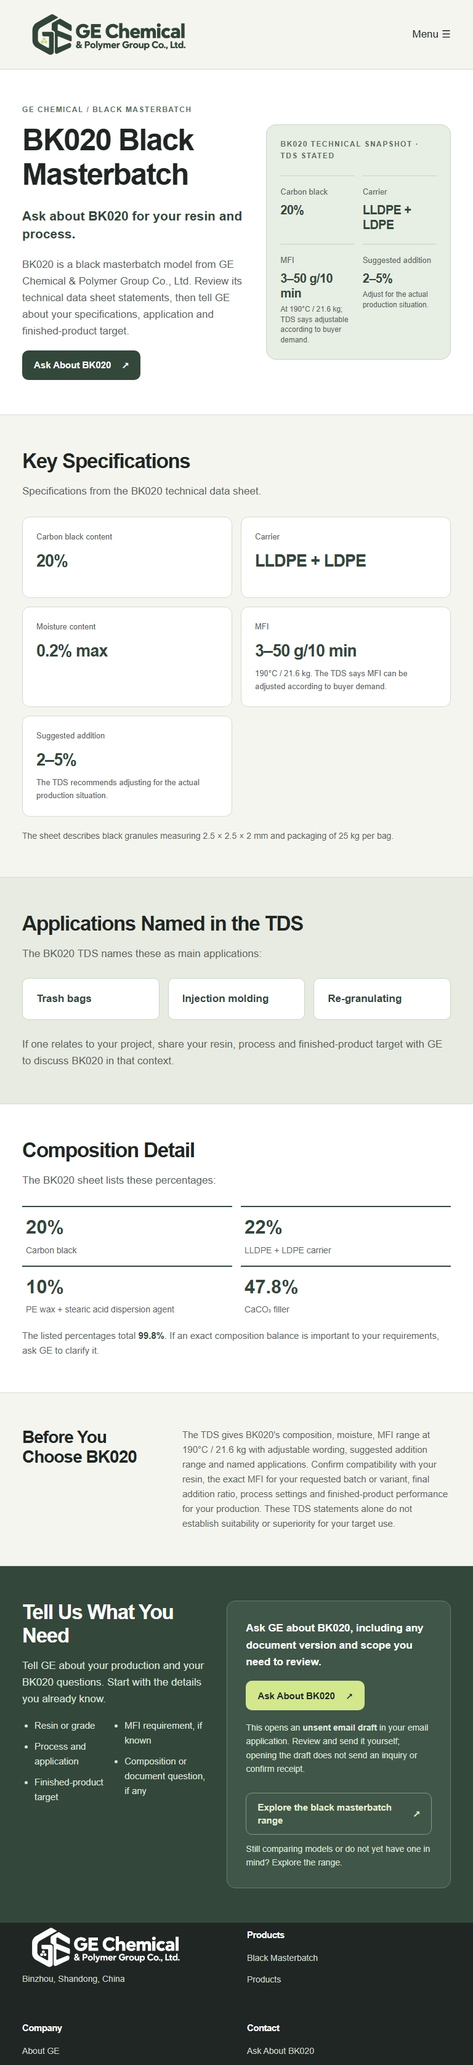
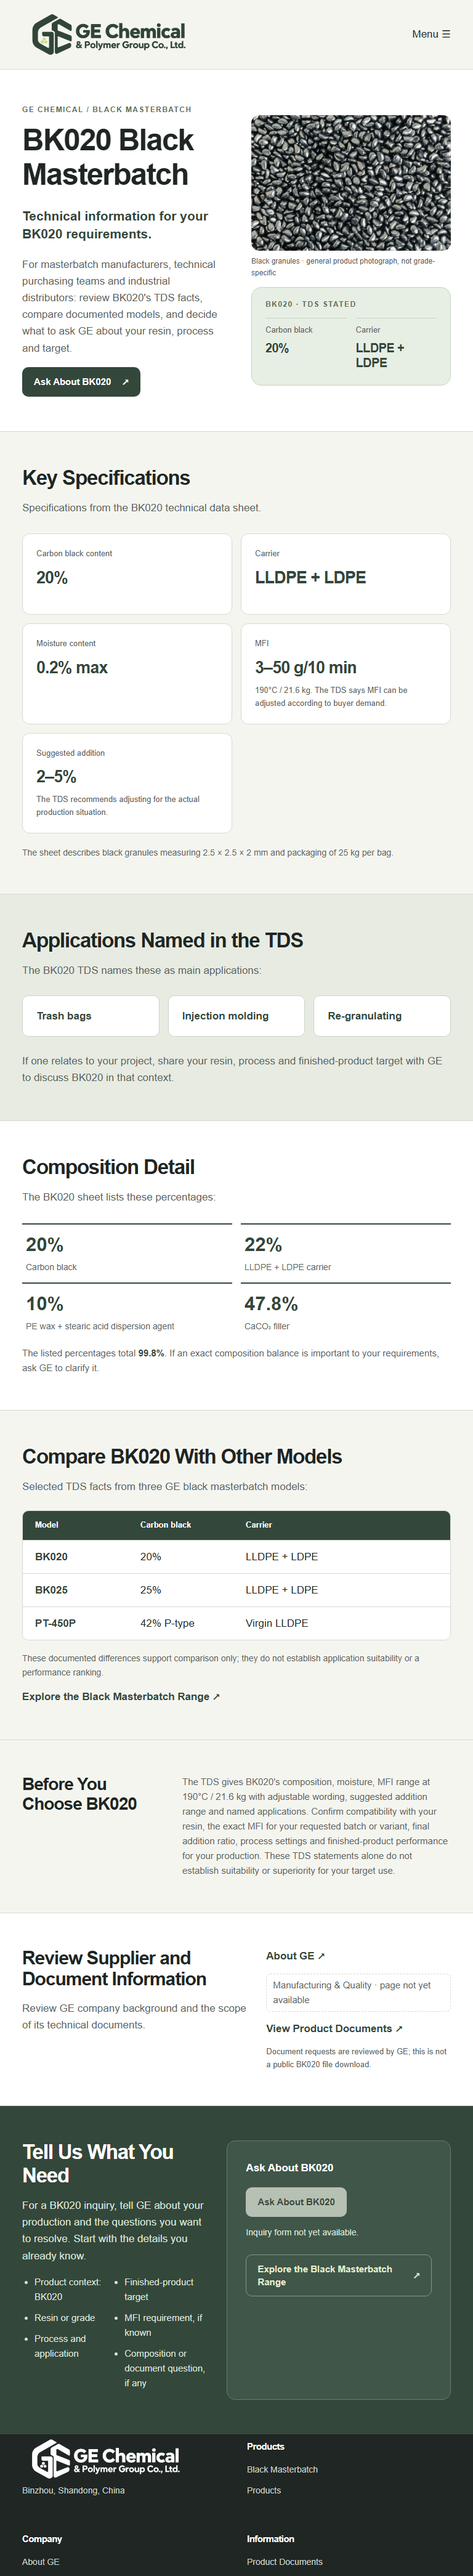
Add BK020 comparison and inquiry-route visual dependencies

diff --git a/planning/visuals/P017/p017-visual.html b/planning/visuals/P017/p017-visual.html
@@ -1,10 +1,12 @@
 <!doctype html><html lang="en"><head><meta charset="utf-8"><meta name="viewport" content="width=device-width, initial-scale=1"><title>BK020 Black Masterbatch | GE Chemical</title><meta name="description" content="Explore BK020 black masterbatch: composition, moisture, MFI and TDS-stated uses. Discuss your resin, process and target with GE."><link rel="stylesheet" href="p017-visual.css"></head><body>
-<header class="site-header"><div class="shell header-inner"><a class="brand" href="/" aria-label="GE Chemical homepage"><img src="../P001/assets/ge-logo-candidate.png" alt="GE Chemical &amp; Polymer Group Co., Ltd."></a><nav class="desktop-nav" aria-label="Primary navigation"><a href="/products/black-masterbatch/">Black Masterbatch</a><a href="/products/">Products</a><a href="/applications/">Applications</a><a href="/about/">About GE</a></nav><a class="header-inquiry" href="mailto:jenny@ge-masterbatch.com?subject=BK020%20evaluation%20question">Ask About BK020 ↗</a><details class="mobile-menu"><summary>Menu ☰</summary><nav aria-label="Mobile navigation"><a href="/products/black-masterbatch/">Black Masterbatch</a><a href="/products/">Products</a><a href="/applications/">Applications</a><a href="/about/">About GE</a><a href="mailto:jenny@ge-masterbatch.com?subject=BK020%20evaluation%20question">Ask About BK020</a></nav></details></div></header>
+<header class="site-header"><div class="shell header-inner"><a class="brand" href="/" aria-label="GE Chemical homepage"><img src="../P001/assets/ge-logo-candidate.png" alt="GE Chemical &amp; Polymer Group Co., Ltd."></a><nav class="desktop-nav" aria-label="Primary navigation"><a href="/products/black-masterbatch/">Black Masterbatch</a><a href="/products/">Products</a><a href="/applications/">Applications</a><a href="/about/">About GE</a></nav><a class="header-inquiry" href="#bk020-inquiry">Ask About BK020 ↗</a><details class="mobile-menu"><summary>Menu ☰</summary><nav aria-label="Mobile navigation"><a href="/products/black-masterbatch/">Black Masterbatch</a><a href="/products/">Products</a><a href="/applications/">Applications</a><a href="/about/">About GE</a><a href="#bk020-inquiry">Ask About BK020</a></nav></details></div></header>
 <main>
-<section class="hero module"><div class="shell hero-layout"><div class="hero-copy"><p class="eyebrow">GE Chemical / Black masterbatch</p><h1>BK020 Black Masterbatch</h1><p class="lead">Ask about BK020 for your resin and process.</p><p>BK020 is a black masterbatch model from GE Chemical &amp; Polymer Group Co., Ltd. Review its technical data sheet statements, then tell GE about your specifications, application and finished-product target.</p><a class="btn primary" href="mailto:jenny@ge-masterbatch.com?subject=BK020%20evaluation%20question">Ask About BK020 <span aria-hidden="true">↗</span></a></div><div class="snapshot"><p class="snapshot-label">BK020 technical snapshot · TDS stated</p><div class="snapshot-grid"><div><span>Carbon black</span><strong>20%</strong></div><div><span>Carrier</span><strong>LLDPE + LDPE</strong></div><div><span>MFI</span><strong>3–50 g/10 min</strong><small>At 190°C / 21.6 kg; TDS says adjustable according to buyer demand.</small></div><div><span>Suggested addition</span><strong>2–5%</strong><small>Adjust for the actual production situation.</small></div></div></div></div></section>
+<section class="hero module"><div class="shell hero-layout"><div class="hero-copy"><p class="eyebrow">GE Chemical / Black masterbatch</p><h1>BK020 Black Masterbatch</h1><p class="lead">Technical information for your BK020 requirements.</p><p>For masterbatch manufacturers, technical purchasing teams and industrial distributors: review BK020's TDS facts, compare documented models, and decide what to ask GE about your resin, process and target.</p><a class="btn primary" href="#bk020-inquiry">Ask About BK020 <span aria-hidden="true">↗</span></a></div><div class="hero-media"><figure><img src="../../inputs/Cmp_Info/PIC&amp;Vedio/微信图片_20260707174840_213_1.jpg" alt="General black masterbatch granules; BK020 grade identity not verified"><figcaption>Black granules · general product photograph, not grade-specific</figcaption></figure><div class="snapshot"><p class="snapshot-label">BK020 · TDS stated</p><div class="snapshot-grid"><div><span>Carbon black</span><strong>20%</strong></div><div><span>Carrier</span><strong>LLDPE + LDPE</strong></div></div></div></div></div></section>
 <section class="specs module"><div class="shell"><div class="intro"><h2>Key Specifications</h2><p>Specifications from the BK020 technical data sheet.</p></div><div class="spec-grid"><div class="spec"><span>Carbon black content</span><strong>20%</strong></div><div class="spec"><span>Carrier</span><strong>LLDPE + LDPE</strong></div><div class="spec"><span>Moisture content</span><strong>0.2% max</strong></div><div class="spec"><span>MFI</span><strong>3–50 g/10 min</strong><p>190°C / 21.6 kg. The TDS says MFI can be adjusted according to buyer demand.</p></div><div class="spec"><span>Suggested addition</span><strong>2–5%</strong><p>The TDS recommends adjusting for the actual production situation.</p></div></div><p class="minor-detail">The sheet describes black granules measuring 2.5 × 2.5 × 2 mm and packaging of 25 kg per bag.</p></div></section>
 <section class="uses module"><div class="shell"><div class="intro"><h2>Applications Named in the TDS</h2><p>The BK020 TDS names these as main applications:</p></div><div class="use-grid"><div>Trash bags</div><div>Injection molding</div><div>Re-granulating</div></div><p class="use-note">If one relates to your project, share your resin, process and finished-product target with GE to discuss BK020 in that context.</p></div></section>
 <section class="composition module"><div class="shell"><div class="intro"><h2>Composition Detail</h2><p>The BK020 sheet lists these percentages:</p></div><div class="composition-grid"><div><strong>20%</strong><span>Carbon black</span></div><div><strong>22%</strong><span>LLDPE + LDPE carrier</span></div><div><strong>10%</strong><span>PE wax + stearic acid dispersion agent</span></div><div><strong>47.8%</strong><span>CaCO₃ filler</span></div></div><p class="composition-note">The listed percentages total <strong>99.8%</strong>. If an exact composition balance is important to your requirements, ask GE to clarify it.</p></div></section>
+<section class="compare module"><div class="shell"><div class="intro"><h2>Compare BK020 With Other Models</h2><p>Selected TDS facts from three GE black masterbatch models:</p></div><div class="compare-table"><div class="compare-head"><span>Model</span><span>Carbon black</span><span>Carrier</span></div><div class="compare-row"><strong>BK020</strong><span>20%</span><span>LLDPE + LDPE</span></div><div class="compare-row"><strong>BK025</strong><span>25%</span><span>LLDPE + LDPE</span></div><div class="compare-row"><strong>PT-450P</strong><span>42% P-type</span><span>Virgin LLDPE</span></div></div><p class="compare-note">These documented differences support comparison only; they do not establish application suitability or a performance ranking.</p><a class="text-link" href="/products/black-masterbatch/">Explore the Black Masterbatch Range ↗</a></div></section>
 <section class="boundary module"><div class="shell boundary-inner"><h2>Before You Choose BK020</h2><p>The TDS gives BK020's composition, moisture, MFI range at 190°C / 21.6 kg with adjustable wording, suggested addition range and named applications. Confirm compatibility with your resin, the exact MFI for your requested batch or variant, final addition ratio, process settings and finished-product performance for your production. These TDS statements alone do not establish suitability or superiority for your target use.</p></div></section>
-<section class="contact module" id="bk020-inquiry"><div class="shell contact-grid"><div><h2>Tell Us What You Need</h2><p>Tell GE about your production and your BK020 questions. Start with the details you already know.</p><ul class="hint-list"><li>Resin or grade</li><li>Process and application</li><li>Finished-product target</li><li>MFI requirement, if known</li><li>Composition or document question, if any</li></ul></div><div class="contact-action"><p>Ask GE about BK020, including any document version and scope you need to review.</p><a class="btn primary" href="mailto:jenny@ge-masterbatch.com?subject=BK020%20evaluation%20question">Ask About BK020 <span aria-hidden="true">↗</span></a><p class="mailto-note">This opens an <strong>unsent email draft</strong> in your email application. Review and send it yourself; opening the draft does not send an inquiry or confirm receipt.</p><a class="btn secondary" href="/products/black-masterbatch/">Explore the black masterbatch range <span aria-hidden="true">↗</span></a><p class="secondary-note">Still comparing models or do not yet have one in mind? Explore the range.</p></div></div></section>
-</main><footer class="site-footer"><div class="shell footer-grid"><div class="footer-identity"><a class="brand" href="/" aria-label="GE Chemical homepage"><img src="../P001/assets/ge-logo-candidate.png" alt="GE Chemical &amp; Polymer Group Co., Ltd."></a><p>Binzhou, Shandong, China</p></div><div><h3>Products</h3><a href="/products/black-masterbatch/">Black Masterbatch</a><a href="/products/">Products</a></div><div><h3>Company</h3><a href="/about/">About GE</a></div><div><h3>Contact</h3><a href="#bk020-inquiry">Ask About BK020</a></div></div></footer></body></html>
+<section class="evidence module"><div class="shell evidence-inner"><div><h2>Review Supplier and Document Information</h2><p>Review GE company background and the scope of its technical documents.</p></div><div class="evidence-links"><a class="text-link" href="/about/">About GE ↗</a><span class="pending-link">Manufacturing &amp; Quality · page not yet available</span><a class="text-link" href="/documents/">View Product Documents ↗</a><small>Document requests are reviewed by GE; this is not a public BK020 file download.</small></div></div></section>
+<section class="contact module" id="bk020-inquiry"><div class="shell contact-grid"><div><h2>Tell Us What You Need</h2><p>For a BK020 inquiry, tell GE about your production and the questions you want to resolve. Start with the details you already know.</p><ul class="hint-list"><li>Product context: BK020</li><li>Resin or grade</li><li>Process and application</li><li>Finished-product target</li><li>MFI requirement, if known</li><li>Composition or document question, if any</li></ul></div><div class="contact-action"><p>Ask About BK020</p><button class="btn primary unavailable" type="button" disabled data-planned-destination="/rfq/" data-product-context="BK020">Ask About BK020</button><p class="unavailable-note">Inquiry form not yet available.</p><a class="btn secondary" href="/products/black-masterbatch/">Explore the Black Masterbatch Range <span aria-hidden="true">↗</span></a></div></div></section>
+</main><footer class="site-footer"><div class="shell footer-grid"><div class="footer-identity"><a class="brand" href="/" aria-label="GE Chemical homepage"><img src="../P001/assets/ge-logo-candidate.png" alt="GE Chemical &amp; Polymer Group Co., Ltd."></a><p>Binzhou, Shandong, China</p></div><div><h3>Products</h3><a href="/products/black-masterbatch/">Black Masterbatch</a><a href="/products/">Products</a></div><div><h3>Company</h3><a href="/about/">About GE</a></div><div><h3>Information</h3><a href="/documents/">Product Documents</a></div></div></footer></body></html>

diff --git a/planning/visuals/P017/p017-visual.css b/planning/visuals/P017/p017-visual.css
@@ -4,3 +4,7 @@
 @media(max-width:760px){.hero-layout,.contact-grid,.boundary-inner{grid-template-columns:1fr}.snapshot{max-width:620px}.use-grid{grid-template-columns:1fr 1fr}.boundary-inner{gap:12px}.hint-list{columns:1}}
 @media(max-width:600px){body{font-size:16px}.shell{padding:0 24px}.header-inner{height:82px}.brand{width:238px;height:68px}.mobile-menu nav{left:24px;right:24px}.module>.shell{padding-top:46px;padding-bottom:46px}h1{font-size:43px}h2{font-size:31px}.lead{font-size:18px}.hero .btn{width:100%}.snapshot-grid{grid-template-columns:1fr 1fr}.snapshot-grid strong{font-size:19px}.spec-grid{grid-template-columns:1fr 1fr;gap:10px}.spec{padding:17px;min-height:116px}.spec strong{font-size:22px}.spec:nth-child(n+4){grid-column:span 2}.composition-grid{gap:12px}.composition-grid strong{font-size:26px}.use-grid{grid-template-columns:1fr;gap:9px}.use-grid div{padding:14px 18px}.boundary h2{font-size:25px}.contact-action{padding:22px}.contact-action .btn{width:100%}.footer-grid{grid-template-columns:1fr;gap:15px}.footer-identity .brand{width:280px;height:83px}}
 @media(max-width:360px){h1{font-size:38px}.brand{width:190px;height:56px}.snapshot-grid{grid-template-columns:1fr}}@media(prefers-reduced-motion:reduce){html{scroll-behavior:auto}}
+.hero-layout{grid-template-columns:1fr 1fr;gap:48px}.hero-media figure{margin:0 0 12px}.hero-media img{display:block;width:100%;height:260px;object-fit:cover;border-radius:13px}.hero-media figcaption{font-size:12px;color:var(--muted);margin-top:8px}.hero-media .snapshot{padding:18px 22px}.hero-media .snapshot-label{margin-bottom:12px}.hero-media .snapshot-grid{gap:15px}.hero-media .snapshot-grid>div{padding-top:9px}.compare{background:var(--paper)}.compare-table{margin:25px 0 18px;border:1px solid var(--line);border-radius:10px;overflow:hidden}.compare-head,.compare-row{display:grid;grid-template-columns:1fr 1fr 2fr;gap:15px;align-items:center;padding:13px 20px}.compare-head{background:var(--green);color:#fff;font-size:13px;font-weight:700}.compare-row{background:#fff;border-top:1px solid var(--line)}.compare-row strong{color:var(--green)}.compare-note{font-size:14px;margin:0 0 15px}.text-link{color:var(--green);font-weight:700;text-decoration:none}.text-link:hover{text-decoration:underline}.evidence{background:#fff}.evidence-inner{display:grid;grid-template-columns:1.1fr .9fr;gap:55px}.evidence-inner h2{font-size:30px}.evidence-links{display:flex;flex-direction:column;align-items:flex-start;gap:14px}.pending-link{font-size:15px;color:var(--muted);border:1px dashed var(--line);border-radius:7px;padding:6px 10px}.evidence-links small{font-size:13px;color:var(--muted);max-width:380px}.contact-action .unavailable{background:#b6c0b3;color:#39483c;cursor:not-allowed}.unavailable-note{font-size:14px;margin:14px 0 25px}.contact .btn.secondary{margin-top:0}
+@media(max-width:1000px){.hero-media img{height:220px}.evidence-inner{gap:30px}}
+@media(max-width:760px){.hero-layout,.evidence-inner{grid-template-columns:1fr}.hero-media img{height:250px}}
+@media(max-width:600px){.hero-media img{height:210px}.compare-head{display:none}.compare-row{grid-template-columns:1fr 1fr;padding:15px}.compare-row span:last-child{grid-column:1/-1}.compare-row span:nth-child(2):before{content:"Carbon black";display:block;color:var(--muted);font-size:12px}.compare-row span:last-child:before{content:"Carrier";display:block;color:var(--muted);font-size:12px}.evidence-inner h2{font-size:28px}}

diff --git a/planning/pages/P017.md b/planning/pages/P017.md
@@ -218,3 +218,15 @@ Latest owner-directed Gate 3 inquiry revision, 2026-10-03: The owner explicitly 
 The amended buyer-visible language is a Gate 3 candidate in `../visuals/P017/p017-visual.html`; the earlier approved Full Copy above remains the factual reference. Reconcile the approved presentation wording into that single Full Copy section after owner visual confirmation and before implementation. Independent read-only buyer-language review of the final visual source returned `REVIEW_READY` with no required findings. The 1440/768/390 exports were rendered and inspected; no horizontal overflow or failed logo loading was observed. Email actions still open an unsent draft and the P013 range route remains the secondary exit; P005/P033/P006 body entrances remain conditional. These checks do not measure inquiry conversion, establish mail delivery or verify WordPress behavior. Owner review of this latest complete static draft is next. `Status: PLANNED`.
 
 Owner email-display correction, 2026-10-03: Following “邮箱不要了。没必要的。” the visual removes the publicly displayed address and direct-email alternatives from Hero, closing copy and footer. The footer now points to the page's BK020 inquiry section. Pending clarification of whether the owner also intends to replace the action channel, the Ask About BK020 buttons retain their existing mailto behavior with an accurate unsent-draft explanation; no unbuilt form is substituted. All three static exports were regenerated without horizontal overflow. `Status: PLANNED`.
+
+## Gate 3 buyer-journey revision — 2026-10-03 (current candidate)
+
+The owner's supplied “Revise BK020 Product Detail Page for Better Industrial B2B Conversion” task authorizes the model comparison, supplier-evidence exit and RFQ architecture below. This replaces the prior visual action proposal, including its mailto fallback; no unrelated page or WordPress file is changed. The current candidate remains in `../visuals/P017/p017-visual.html` and its matching 1440/768/390 exports. Revised presentation wording remains subject to owner confirmation and later reconciliation into the single Full Copy source above before implementation.
+
+- **Hero:** identifies BK020 and addresses masterbatch manufacturers, technical purchasing teams and industrial distributors. Its snapshot contains only 20% carbon black and LLDPE + LDPE carrier; the later specification module holds the full five-field summary. The existing supplied black-granule photograph `../inputs/Cmp_Info/PIC&Vedio/微信图片_20260707174840_213_1.jpg` is reused under P001's approved local presentation scope, with a visible general-product/not-grade-specific caption and descriptive alt. It is not a BK020 photo or evidence of grade performance; production attribution/rights remain separate.
+- **Technical detail:** the three TDS-named applications remain text labels, not model-fit recommendations or active links to unbuilt application pages. Composition is retained as compact TDS-stated supporting information, with 99.8% listed total unchanged and no invented remainder. MFI condition/adjustability and suggested addition qualifiers remain attached to the values. Before You Choose BK020 remains compact and does not become P033's full selection method.
+- **Model relationship:** a selected three-row comparison shows BK020 (20%, LLDPE + LDPE), BK025 (25%, LLDPE + LDPE), and PT-450P (42% P-type, virgin LLDPE). The original BK020, BK025 and `TDS--PT-400.doc` bodies were read directly for this revision; the last body identifies PT-450P. Only carbon-black content and carrier are compared, without price, quality, fit or performance ranking. A visible comparison caution and active P013 range exit remain. P018/P023 detail links are withheld until approved and available; three selected rows do not represent the complete seven-model range.
+- **Evidence exits:** local checks returned 200 for P013 `/products/black-masterbatch/`, P005 `/documents/` and `/about/`. P005's approved contact-for-review/no-public-download behavior supports View Product Documents as a document-information exit. P004 `/manufacturing-quality/` returned 404 and is shown as unavailable, with About GE as the working supplier-background alternative. No facility/process or certification claim is imported into P017. Actual P026/P029/P028 application routes returned 404 and remain inactive.
+- **Inquiry dependency:** all mailto links and public email addresses are removed. Header/Hero Ask About BK020 actions currently scroll to the page's inquiry-preparation section; they do not submit. The intended primary destination is P006 `/rfq/` with BK020 as product context. It currently returns 404 and has no verified model-context interface, so the lower Ask About BK020 control is disabled with a truthful unavailable state. The drawing's destination/context markers are proposed intent, not an implemented query parameter or prefill contract. Optional resin/grade, process/application, target, MFI and document/composition prompts remain; no fake form or success state is added. P006 must define and verify the actual context handoff, saved/error outcomes and receiving behavior before this can become an active inquiry route. This remains an acceptance blocker for the working buyer journey, rather than a completed conversion system.
+
+Independent read-only buyer review of the final visual source: `REVIEW_READY` for owner consideration, no required factual/copy correction. The reviewer checked the new comparison against the original three TDS, existing fact limits, image scope and truthful action states. Static rendering and inspection at 1440/768/390 showed five specification blocks, the three comparison rows, loaded images and no horizontal overflow. These checks do not establish inquiry conversion, runtime form behavior or production release. Owner visual approval, production media clearance, P004 availability and P006 runtime dependencies remain open. `Status: PLANNED`.
